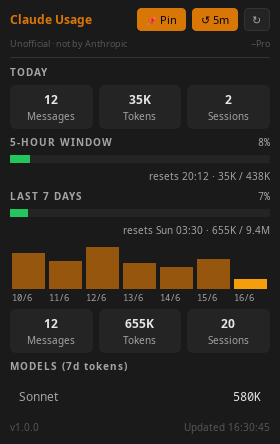
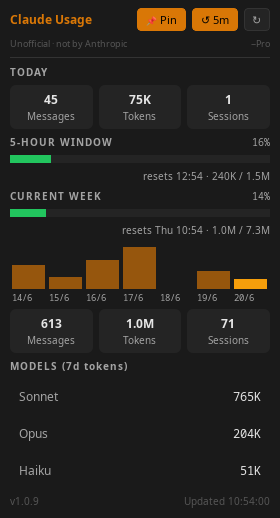
fix: rename 7-day section to Current Week; refresh README screenshots
- Label "LAST 7 DAYS" → "CURRENT WEEK" to match Claude Code /usage wording
  and clarify it's a fixed reset window, not a rolling 7-day count
- README bullet updated to note fixed-window behaviour
- Regenerated all three README screenshots with correct plan inference,
  prod-like version (v1.0.9) and no update banner
- Add make_screenshots.py for reproducible screenshot generation

diff --git a/make_screenshots.py b/make_screenshots.py
@@ -1,0 +1,113 @@
+#!/usr/bin/env python3
+"""Generate synthetic README screenshots for three typical usage scenarios."""
+
+import sys
+import time
+from datetime import datetime, timedelta
+from pathlib import Path
+
+from PyQt6.QtWidgets import QApplication
+from PyQt6.QtCore import QTimer
+
+import claude_usage
+claude_usage.APP_VERSION = "v1.0.9"  # set before importing UsageWindow so version label renders
+from claude_usage import UsageWindow
+
+# suppress update banner in screenshots
+UsageWindow._check_for_update = lambda self: None
+
+OUTPUT = Path(__file__).parent / "packaging"
+
+# today and the 6 days before it
+TODAY = datetime.now().strftime("%Y-%m-%d")
+DAYS = [(datetime.now() - timedelta(days=i)).strftime("%Y-%m-%d") for i in range(6, -1, -1)]
+
+NEXT_WEEK_RESET = time.time() + 5 * 24 * 3600  # ~5 days from now (Wed)
+NEXT_5H_RESET   = time.time() + 2 * 3600       # ~2 h from now
+
+
+def _daily(token_days: list[int], msgs_per_1k: float = 0.6) -> dict:
+    """Build a daily dict from a list of 7 token counts (oldest→newest)."""
+    daily: dict = {}
+    for d, toks in zip(DAYS, token_days):
+        is_today = d == TODAY
+        msgs = max(1, int(toks * msgs_per_1k / 1000))
+        sessions = max(1, msgs // 8)
+        daily[d] = {
+            "messages": msgs,
+            "tokens": toks,
+            "sessions": sessions,
+            "models": {"Sonnet": int(toks * 0.75), "Opus": int(toks * 0.20), "Haiku": int(toks * 0.05)},
+        }
+        if is_today:
+            daily[d]["sessions"] = max(1, sessions // 3)
+    return daily
+
+
+SCENARIOS = [
+    # (filename, daily_tokens[7], win_tokens, rl_override)
+    # Pro: 5h ceiling ~1.5M → 16% ≈ 240K in window
+    (
+        "screenshot_pro_low.png",
+        _daily([180_000, 95_000, 220_000, 310_000, 0, 140_000, 75_000]),
+        240_000,
+        {
+            "five_hour": {"used_percentage": 16.0, "resets_at": NEXT_5H_RESET},
+            "seven_day": {"used_percentage": 14.0, "resets_at": NEXT_WEEK_RESET},
+        },
+    ),
+    # Max 5x: 5h ceiling ~3M → 38% ≈ 1.14M in window
+    (
+        "screenshot_max5x_medium.png",
+        _daily([1_200_000, 980_000, 1_500_000, 750_000, 1_100_000, 600_000, 420_000]),
+        1_140_000,
+        {
+            "five_hour": {"used_percentage": 38.0, "resets_at": NEXT_5H_RESET},
+            "seven_day": {"used_percentage": 43.0, "resets_at": NEXT_WEEK_RESET},
+        },
+    ),
+    # Max 20x: 5h ceiling ~10M → 71% ≈ 7.1M in window
+    (
+        "screenshot_max20x_high.png",
+        _daily([4_800_000, 5_200_000, 3_900_000, 6_100_000, 4_400_000, 5_700_000, 2_100_000]),
+        7_100_000,
+        {
+            "five_hour": {"used_percentage": 71.0, "resets_at": NEXT_5H_RESET},
+            "seven_day": {"used_percentage": 82.0, "resets_at": NEXT_WEEK_RESET},
+        },
+    ),
+]
+
+
+def shoot(app: QApplication, scenario: tuple) -> None:
+    filename, daily, win_tokens, rl = scenario
+    win = UsageWindow()
+    win._apply_refresh(daily, win_tokens, rl)
+    win.show()
+    app.processEvents()
+
+    # slight delay so Qt finishes painting
+    deadline = time.time() + 0.3
+    while time.time() < deadline:
+        app.processEvents()
+
+    px = win.grab()
+    out = OUTPUT / filename
+    px.save(str(out))
+    print(f"  saved {out}")
+    win.close()
+    app.processEvents()
+
+
+def main() -> None:
+    app = QApplication(sys.argv)
+    app.setApplicationName("Claude Usage")
+
+    for scenario in SCENARIOS:
+        shoot(app, scenario)
+
+    print("Done.")
+
+
+if __name__ == "__main__":
+    main()

diff --git a/claude_usage.py b/claude_usage.py
@@ -577,7 +577,7 @@ class UsageWindow(QWidget):
 
         # ── week ─────────────────────────────────────────────────────────
         week_hdr = QHBoxLayout()
-        week_lbl = QLabel("LAST 7 DAYS")
+        week_lbl = QLabel("CURRENT WEEK")
         week_lbl.setStyleSheet(f"color: {FG2}; font-size: 10px; font-weight: bold; letter-spacing: 1px;")
         week_hdr.addWidget(week_lbl)
         week_hdr.addStretch()

diff --git a/README.md b/README.md
@@ -11,7 +11,7 @@ A lightweight PyQt6 desktop widget that shows your [Claude Code](https://claude.
 **What it shows:**
 - Today's messages, tokens, and sessions
 - Rolling 5-hour window gauge with implied token ceiling and inferred plan (~Pro / ~Max 5x / ~Max 20x)
-- 7-day bar chart and totals
+- Current-week bar chart and totals (fixed window, resets on Anthropic's schedule — not a rolling 7-day count)
 - Per-model token breakdown (Sonnet / Opus / Haiku)
 - Real rate-limit percentages when the Claude Code statusline script is running
 - In-app one-click update when a newer version is available (auto-restarts)